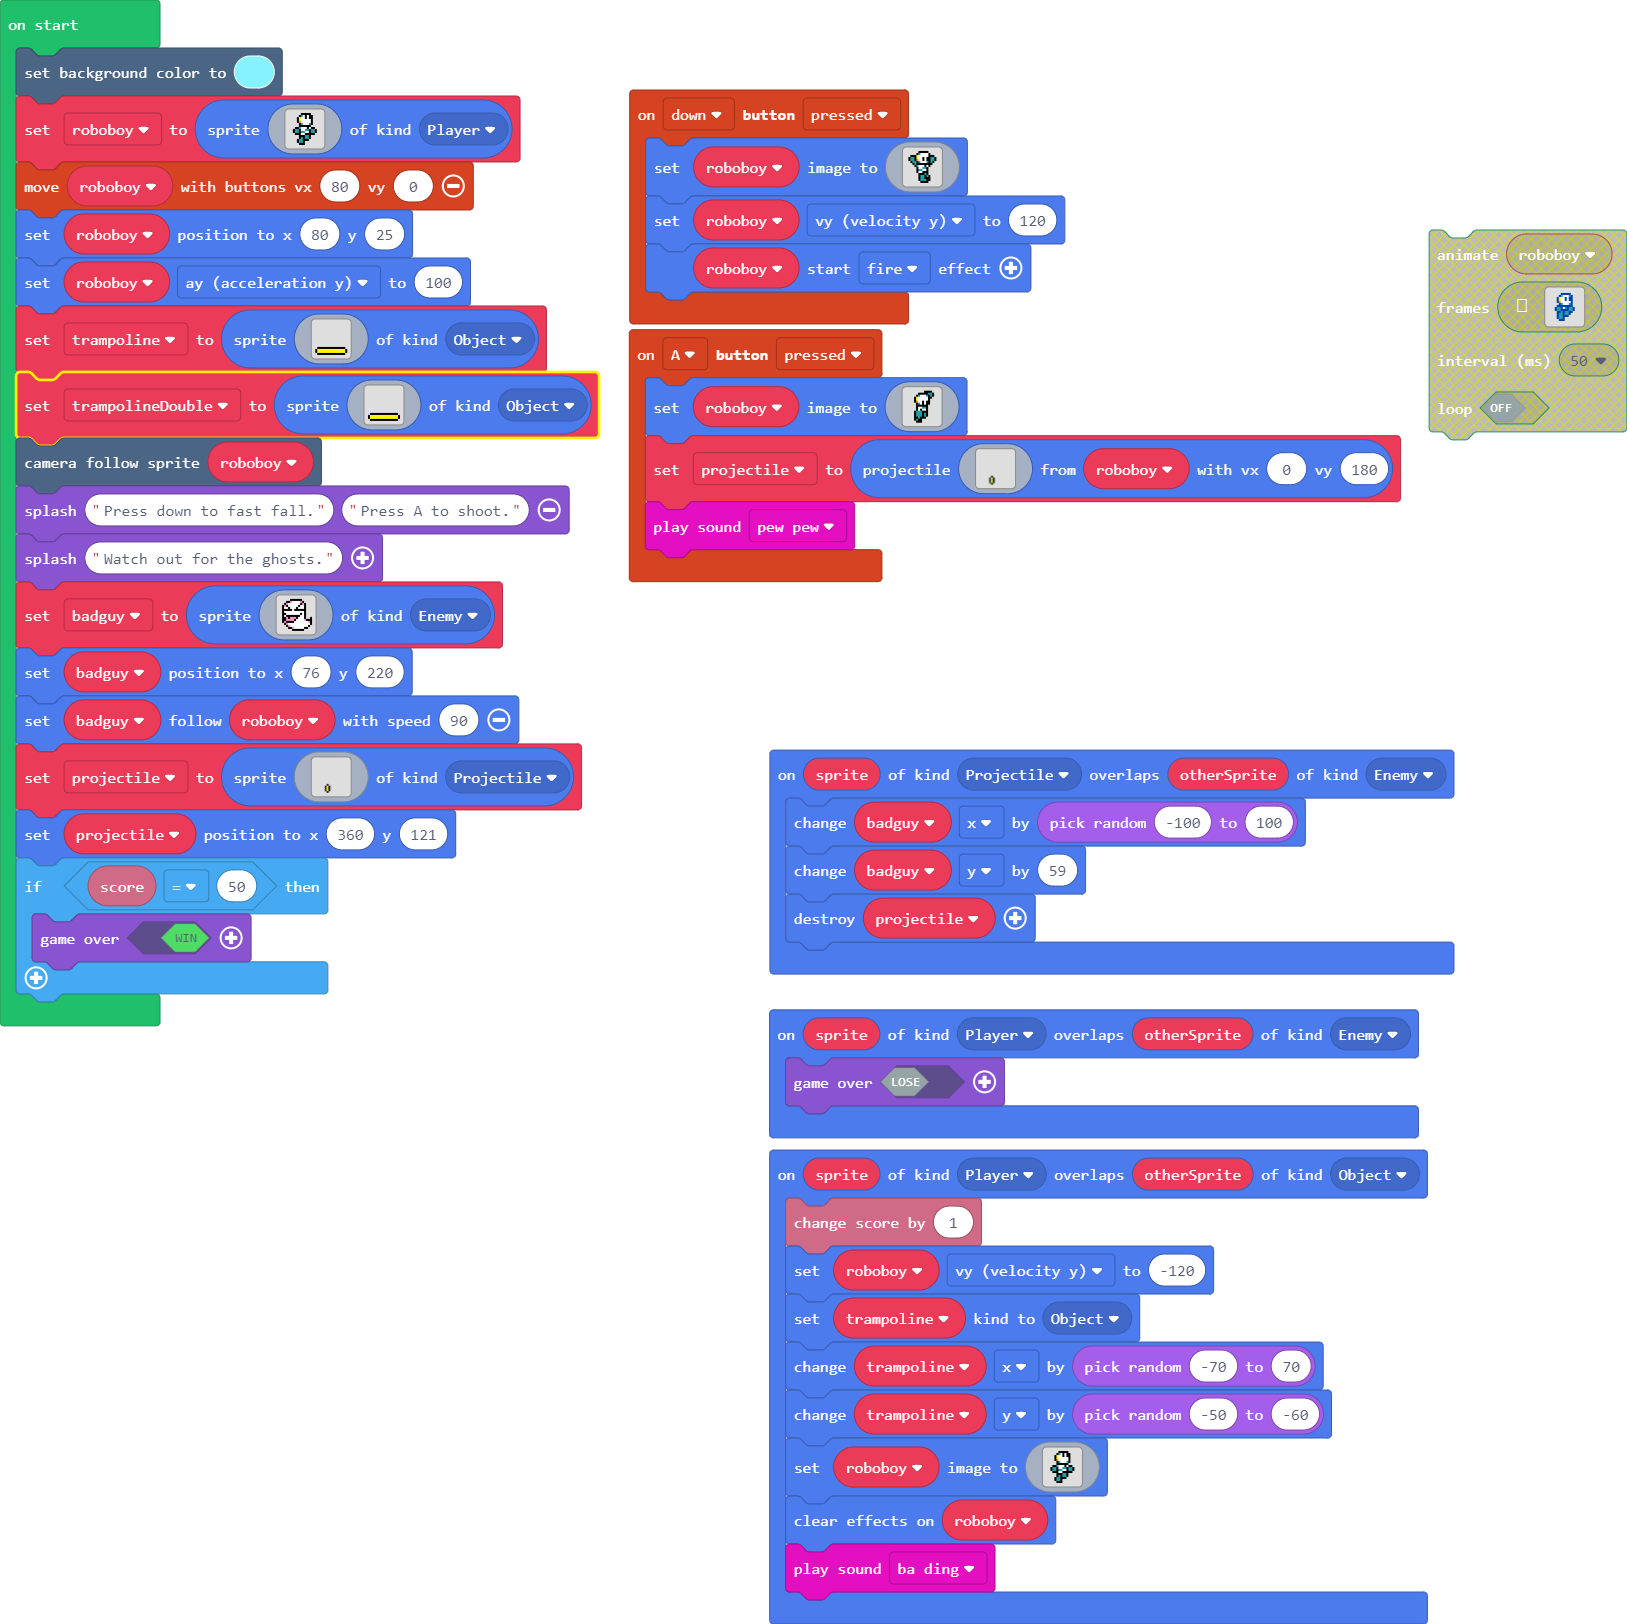
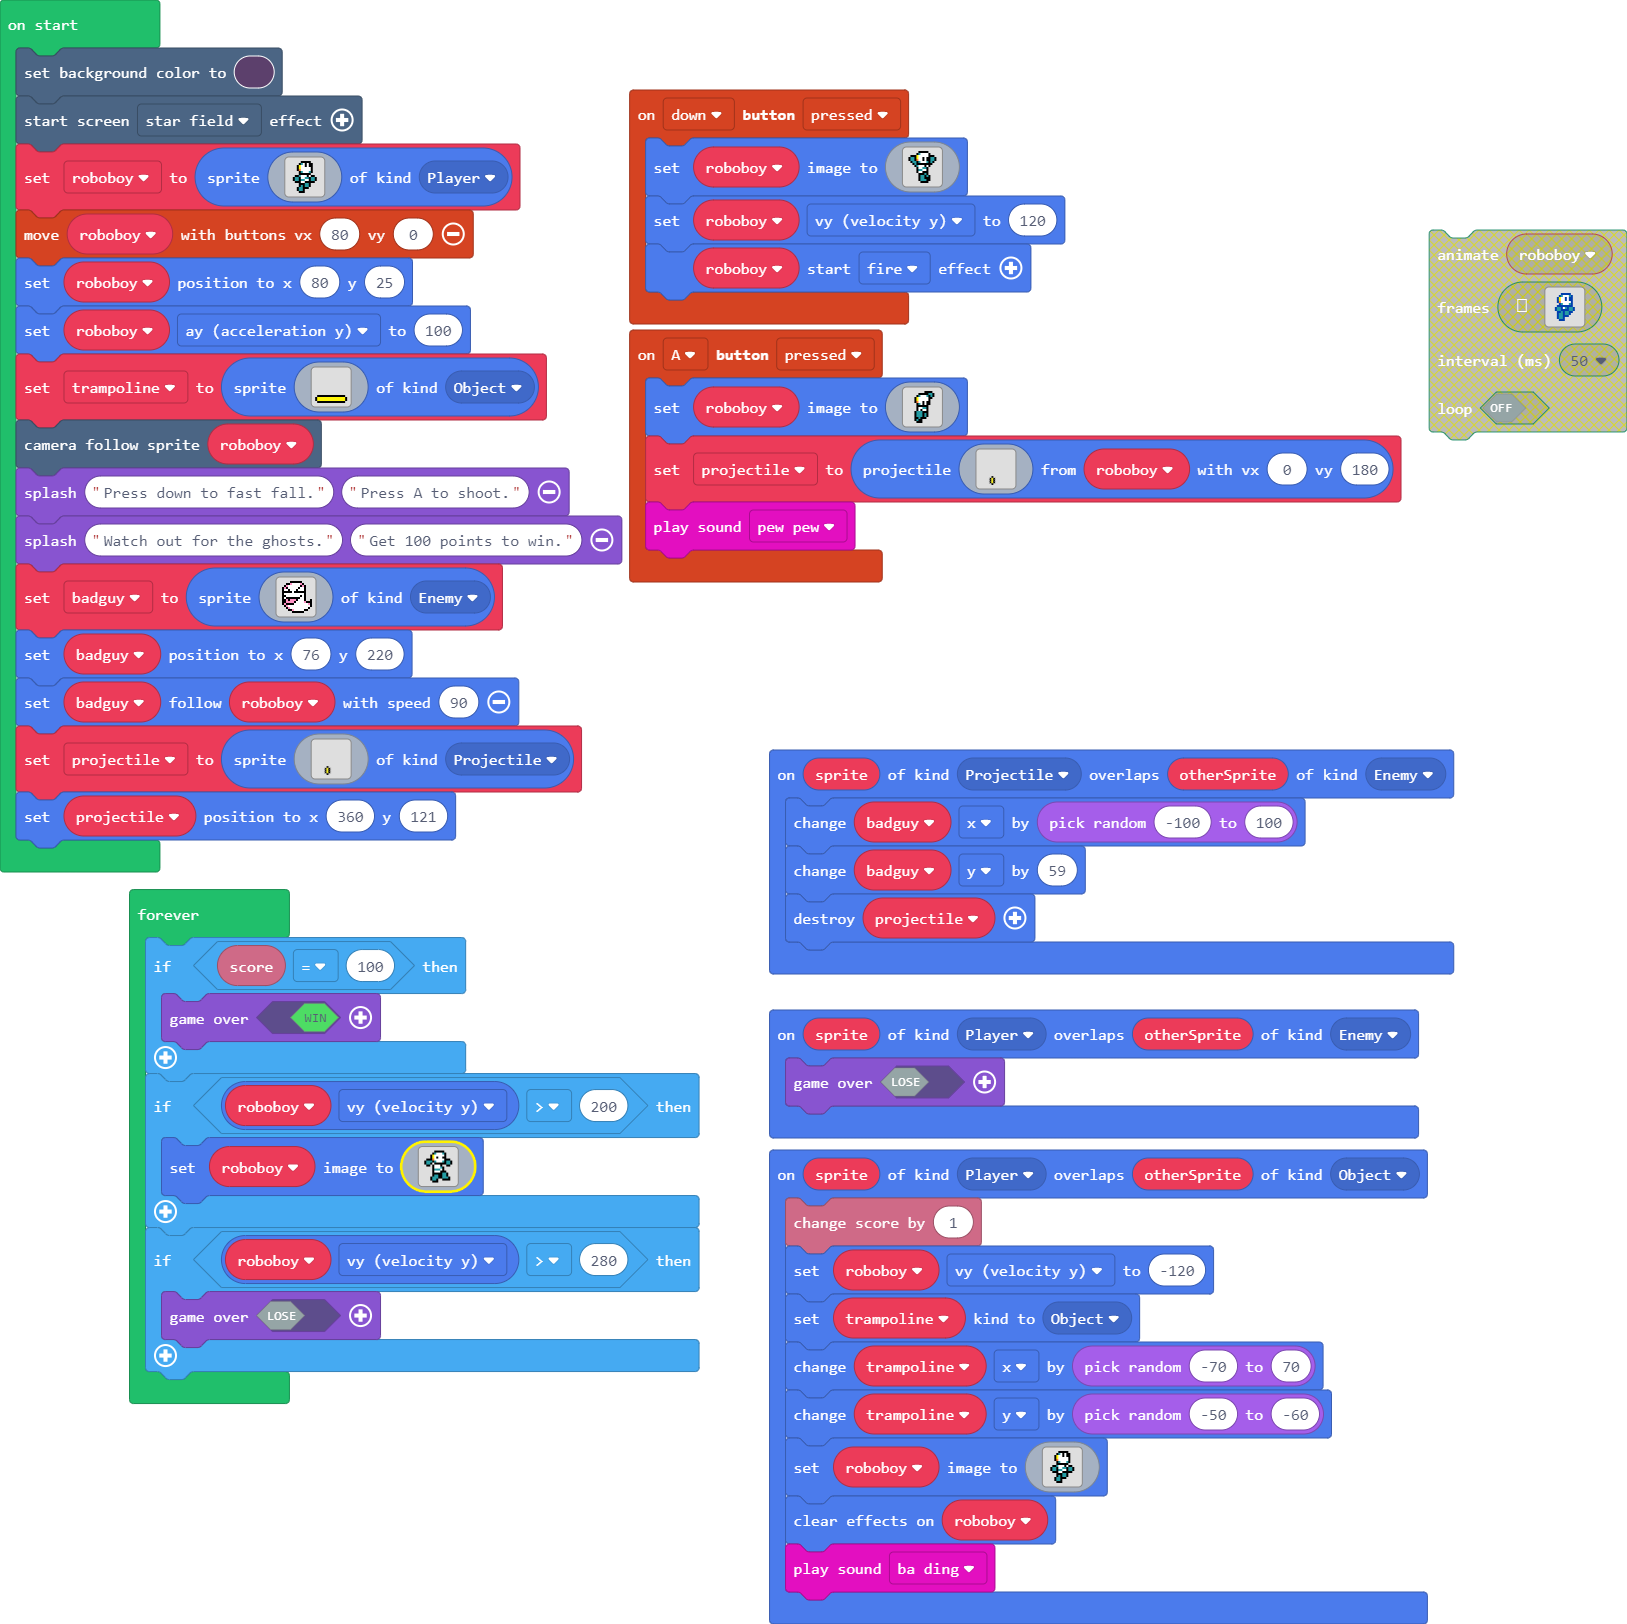
changed background, added new win condition, and a new lose condition

diff --git a/main.ts b/main.ts
@@ -162,7 +162,8 @@ let projectile: Sprite = null
 let badguy: Sprite = null
 let trampoline: Sprite = null
 let roboboy: Sprite = null
-scene.setBackgroundColor(9)
+scene.setBackgroundColor(12)
+effects.starField.startScreenEffect()
 roboboy = sprites.create(img`
 . . . . . . f f f f f . . . . . 
 . . . . . f 6 1 f 1 f f . . . . 
@@ -202,27 +203,9 @@ f 5 5 5 5 5 5 5 5 5 5 5 5 5 5 f
 f 5 5 5 5 5 5 5 5 5 5 5 5 5 5 f 
 . f f f f f f f f f f f f f f . 
 `, SpriteKind.Object)
-let trampolineDouble = sprites.create(img`
-. . . . . . . . . . . . . . . . 
-. . . . . . . . . . . . . . . . 
-. . . . . . . . . . . . . . . . 
-. . . . . . . . . . . . . . . . 
-. . . . . . . . . . . . . . . . 
-. . . . . . . . . . . . . . . . 
-. . . . . . . . . . . . . . . . 
-. . . . . . . . . . . . . . . . 
-. . . . . . . . . . . . . . . . 
-. . . . . . . . . . . . . . . . 
-. . . . . . . . . . . . . . . . 
-. . . . . . . . . . . . . . . . 
-. f f f f f f f f f f f f f f . 
-f 5 5 5 5 5 5 5 5 5 5 5 5 5 5 f 
-f 5 5 5 5 5 5 5 5 5 5 5 5 5 5 f 
-. f f f f f f f f f f f f f f . 
-`, SpriteKind.Object)
 scene.cameraFollowSprite(roboboy)
 game.splash("Press down to fast fall.", "Press A to shoot.")
-game.splash("Watch out for the ghosts.")
+game.splash("Watch out for the ghosts.", "Get 100 points to win.")
 badguy = sprites.create(img`
 . . . . . f f f f f f . . . . . 
 . . . f f 3 1 1 1 1 3 f . . . . 
@@ -264,6 +247,31 @@ projectile = sprites.create(img`
 . . f . . . . . 
 `, SpriteKind.Projectile)
 projectile.setPosition(360, 121)
-if (info.score() == 50) {
-    game.over(true)
-}
+forever(function () {
+    if (info.score() == 100) {
+        game.over(true)
+    }
+    if (roboboy.vy > 200) {
+        roboboy.setImage(img`
+. . . . . . f f f f f . . . . . 
+. . . . . f 6 1 1 1 6 f . . . . 
+. . . . f 5 1 1 1 1 1 f . . . . 
+. . . . f 5 1 f 1 1 f f . . . . 
+. . f f f 4 1 1 1 1 1 f f f . . 
+. f 6 6 6 f 6 1 1 1 6 f 6 6 f . 
+. f 6 6 f 1 f f f f f f 6 6 f . 
+. . f f . f 1 1 1 f . . f f . . 
+. . . . . f 1 1 1 6 f . . . . . 
+. . . . . f 6 6 6 1 f . . . . . 
+. . . . . f 1 1 1 f f f . . . . 
+. . . . . f f f f f 6 6 f . . . 
+. . . . . f 6 6 f f 6 6 f . . . 
+. . . . f 6 6 6 f f 6 6 6 f . . 
+. . . . f 6 6 f . . f f f f . . 
+. . . . . f f f . . . . . . . . 
+`)
+    }
+    if (roboboy.vy > 280) {
+        game.over(false)
+    }
+})
